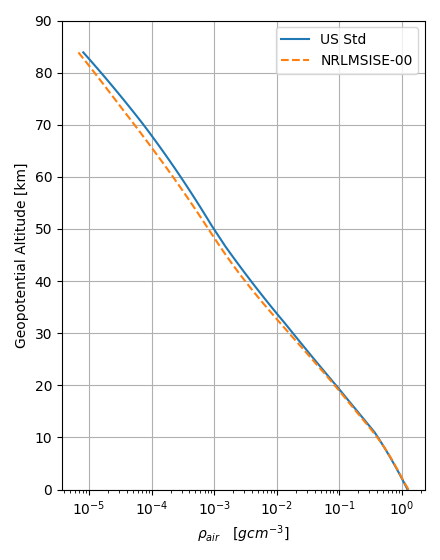
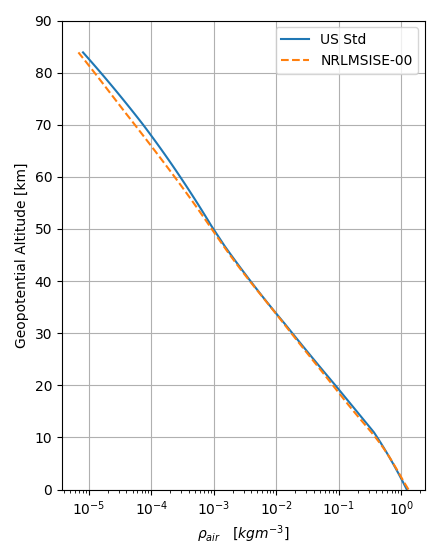
NRLMSISE00 now returns density in kg/m3

diff --git a/validation_goce_mission/analysis.py b/validation_goce_mission/analysis.py
@@ -82,7 +82,7 @@ df_goce = df_goce[
 
 # Reduce the dataset by only keeping every N-th sample
 # reduces the number of API calls
-reduction_factor = 250
+reduction_factor = 500
 df_goce = df_goce.iloc[::reduction_factor, :]
 
 # Create geomagnetic indices lookup dataframe for the month
@@ -211,12 +211,7 @@ df_goce["f107a"] = [
     for dt in df_goce.datetime.values
 ]
 
-# Calculate NRLMSISE-00 model densities using the API
-
-endpoint = args.hostname + "/api/nrlmsise00"
-
-
-def fetch_density_from_api(row):
+def fetch_density_from_api(row, url):
     """
     Make an API call to sample the atmospheric density using the 
     NRLMSISE-00 model. 
@@ -227,46 +222,35 @@ def fetch_density_from_api(row):
     
     """
     # Hit the Amentum Atmosphere API to calculate total mass density
-    # according to NRLMSISE-00
+    # according to NRLMSISE-00 and JB2008 endpoints
+    # params common to both
+
     payload = {
         "altitude": row["altitude"] / 1000.0,  # convert to kms
         "geodetic_latitude": row["latitude"],
         "geodetic_longitude": row["longitude"],
-        "f107a": row["f107a"],
-        "f107": row["f107"],
-        "ap": row["Ap"],
-        "year": row["datetime"].year,
-        "month": row["datetime"].month,
-        "day": row["datetime"].day,
+        "year" : row["datetime"].year,
+        "month" : row["datetime"].month,
+        "day" : row["datetime"].day,
         "utc": row["datetime"].hour
         + row["datetime"].minute / 60,  # TODO this must be decimal
     }
+    # additional required for the nrl one
+    if "nrlmsise00" in url:
+        payload.update({
+            "f107a": row["f107a"],
+            "f107": row["f107"],
+            "ap": row["Ap"]
+        })
+
     # Boom, hit it! Then return the JSONs
     try:
-        response = requests.get(endpoint, params=payload)
+        response = requests.get(url, params=payload)
     except requests.exceptions.RequestException as e:
         print(e)
         raise KeyboardInterrupt
     else:
         return response.json()
-
-print("WARNING: making {} requests from the Amentum API, may exceed daily quota".format(len(df_goce)))
-
-# Apply the function call onto each row of the dataframe
-res = df_goce.apply(fetch_density_from_api, axis=1)
-
-# Convert from g/cm3 to kg/m3
-df_goce["api_density"] = [row["total_mass"]["value"] * 1e-3 * 1e6 for row in res.values]
-
-# Prepare data for plotting
-
-# Convert datetimes to delta since first measurements
-# This will be used for the binning and plotting
-# (avoids using datetime objects)
-time_deltas = df_goce["datetime"].values - df_goce["datetime"].values.min()
-
-# Convert time_deltas to seconds, will also convert to float type
-time_deltas = [t / np.timedelta64(1, "s") for t in time_deltas]
 
 # limits for binning of timestamp and arg of lat
 
@@ -276,21 +260,22 @@ time_deltas = [t / np.timedelta64(1, "s") for t in time_deltas]
 time_delta_low = 0
 time_delta_high = (stop_date - start_date).total_seconds()
 
-# Create linear bins for time delta data points 
-tds = np.linspace(min(time_deltas), max(time_deltas), 20)
 # go for daily bins. 
 seconds_per_hour = 60 * 60 
 seconds_per_day = 60 * 60 * 24 
 # bin to ensure final edge is considered
 tds = np.arange(time_delta_low, time_delta_high+seconds_per_day*2, seconds_per_day*2)
 
-# same for arg lats
-arg_lats = np.linspace(
-    df_goce["argument_latitude"].min(), df_goce["argument_latitude"].max(), 20
-)
-
 arg_lat_delta = 10 # degree
 arg_lats = np.arange(0,360+arg_lat_delta,arg_lat_delta)
+
+# Convert datetimes to delta since first measurements
+# This will be used for the binning and plotting
+# (avoids using datetime objects)
+time_deltas = df_goce["datetime"].values - df_goce["datetime"].values.min()
+
+# Convert time_deltas to seconds, will also convert to float type
+time_deltas = [t / np.timedelta64(1, "s") for t in time_deltas]
 
 # Calculate the densities as mean values lying within 2d grid of bins
 densities = stats.binned_statistic_2d(
@@ -301,90 +286,106 @@ densities = stats.binned_statistic_2d(
     bins=(tds, arg_lats),
 )
 
-densities_api = stats.binned_statistic_2d(
-    time_deltas,
-    df_goce["argument_latitude"].values,
-    df_goce["api_density"].values,
-    statistic="mean",
-    bins=(tds, arg_lats),
-)
+# Calculate NRLMSISE-00 model densities using the API
 
-fig_cont, (ax_goce, ax_api) = plt.subplots(nrows=2, sharex=True)
-fig_cont.suptitle("GOCE (top) vs NRLMSISE-00 (bottom)")
+for endpoint in ["nrlmsise00", "jb2008"]:
 
-cs0 = ax_goce.imshow(
-    densities.statistic.T,
-    extent=(start_day, stop_day, arg_lats.min(), arg_lats.max()),
-    origin="lower",
-    aspect="auto",
-    cmap=plt.cm.jet,
-    vmin=df_goce["density"].values.min(),
-    vmax=df_goce["density"].values.max(),
-)
+    url = args.hostname + "/api/" + endpoint
 
-cs1 = ax_api.imshow(
-    densities_api.statistic.T,
-    extent=(start_day, stop_day, arg_lats.min(), arg_lats.max()),
-    origin="lower",
-    aspect="auto",
-    cmap=plt.cm.jet,
-    vmin=df_goce["density"].values.min(),
-    vmax=df_goce["density"].values.max(),
-)
+    print("WARNING: {} requests to Amentum API, may exceed quota".format(len(df_goce)))
 
-for ax in [ax_goce, ax_api]:
-    # Fetch the labels for the api sourced data
-    ax.set_ylabel("Argument of Latitude, deg")
-    ax.set_yticks(np.arange(0, 360, 90))
-    ax.set_xticks(np.arange(start_day, stop_day, 5))
+    # Apply the function call onto each row of the dataframe
+    res = df_goce.apply(fetch_density_from_api, args=(url,), axis=1)
 
-# Set x labels on bottom plot only
-ax_api.set_xlabel(datetime.date(year, month, 1).strftime("%B %Y"))
+    # Convert from g/cm3 to kg/m3
+    df_goce[endpoint] = [row["total_mass"]["value"] * 1e-3 * 1e6 for row in res.values]
 
-# Format colorbar axis
-cb = fig_cont.colorbar(cs1, ax=list((ax_goce, ax_api)), format="%3.1e")
+    # Prepare data for plotting
+    densities_api = stats.binned_statistic_2d(
+        time_deltas,
+        df_goce["argument_latitude"].values,
+        df_goce[endpoint].values,
+        statistic="mean",
+        bins=(tds, arg_lats),
+    )
 
-cb.set_label("Density " + r"$kgm^{-3}$")
+    fig_cont, (ax_goce, ax_api) = plt.subplots(nrows=2, sharex=True)
+    fig_cont.suptitle("GOCE (top) vs "+endpoint.upper()+" (bottom)")
 
-fig_cont.savefig("Density_GOCE_vs_NRLMSISE-00.png")
+    cs0 = ax_goce.imshow(
+        densities.statistic.T,
+        extent=(start_day, stop_day, arg_lats.min(), arg_lats.max()),
+        origin="lower",
+        aspect="auto",
+        cmap=plt.cm.jet,
+        vmin=df_goce["density"].values.min(),
+        vmax=df_goce["density"].values.max(),
+    )
 
-# Now plot the profiles for a particular argument latitude
+    cs1 = ax_api.imshow(
+        densities_api.statistic.T,
+        extent=(start_day, stop_day, arg_lats.min(), arg_lats.max()),
+        origin="lower",
+        aspect="auto",
+        cmap=plt.cm.jet,
+        vmin=df_goce["density"].values.min(),
+        vmax=df_goce["density"].values.max(),
+    )
 
-# TODO functionise this to plot for different arg of lats
+    for ax in [ax_goce, ax_api]:
+        # Fetch the labels for the api sourced data
+        ax.set_ylabel("Argument of Latitude, deg")
+        ax.set_yticks(np.arange(0, 360, 90))
+        ax.set_xticks(np.arange(start_day, stop_day, 5))
 
-fig_prof = plt.figure()
-ax_prof = fig_prof.add_subplot(111)
-ax_prof.set_xlabel(datetime.date(year, month, 1).strftime("%B %Y"))
-ax_prof.set_ylabel("Density " + r"$kgm^{-3}$")
+    # Set x labels on bottom plot only
+    ax_api.set_xlabel(datetime.date(year, month, 1).strftime("%B %Y"))
 
-midlat_index = np.searchsorted(arg_lats, 180)
+    # Format colorbar axis
+    cb = fig_cont.colorbar(cs1, ax=list((ax_goce, ax_api)), format="%3.1e")
 
-arg_lat_of_interest = arg_lats[midlat_index]
+    cb.set_label("Density " + r"$kgm^{-3}$")
 
-ax_prof.plot(tds[:-1], densities.statistic.T[midlat_index, :], label="GOCE")
+    fig_cont.savefig("Density_GOCE_vs_{}.png".format(endpoint))
 
-ax_prof.plot(
-    tds[:-1], densities_api.statistic.T[midlat_index, :], label="NRLMSISE-00"
-)
+    # Now plot the profiles for a particular argument latitude
 
-labels = [item.get_text() for item in ax_prof.get_xticklabels()]
+    # TODO functionise this to plot for different arg of lats
+
+    fig_prof = plt.figure()
+    ax_prof = fig_prof.add_subplot(111)
+    ax_prof.set_xlabel(datetime.date(year, month, 1).strftime("%B %Y"))
+    ax_prof.set_ylabel("Density " + r"$kgm^{-3}$")
+
+    midlat_index = np.searchsorted(arg_lats, 180)
+
+    arg_lat_of_interest = arg_lats[midlat_index]
+
+    ax_prof.plot(tds[:-1], densities.statistic.T[midlat_index, :], label="GOCE")
+
+    ax_prof.plot(
+        tds[:-1], densities_api.statistic.T[midlat_index, :], label=endpoint.upper()
+    )
+
+    labels = [item.get_text() for item in ax_prof.get_xticklabels()]
 
 
-def format_func(value, tick_number):
-    """
-    Function to convert tick labels from seconds elapsed to 
-    day of date.
-    
-    """
-    return start_day + int(value / seconds_per_day)
+    def format_func(value, tick_number):
+        """
+        Function to convert tick labels from seconds elapsed to 
+        day of date.
+        
+        """
+        return start_day + int(value / seconds_per_day)
 
 
-ax_prof.xaxis.set_major_formatter(plt.FuncFormatter(format_func))
+    ax_prof.xaxis.set_major_formatter(plt.FuncFormatter(format_func))
 
-ax_prof.legend()
+    ax_prof.legend()
 
-fig_prof.suptitle(
-    "Argument of latitude {0:.2f} deg".format(arg_lat_of_interest), fontsize=12
-)
+    fig_prof.suptitle(
+        "Argument of latitude {0:.2f} deg".format(arg_lat_of_interest), fontsize=12
+    )
 
-fig_prof.savefig("Density_vs_day_AOL{}.png".format(int(arg_lat_of_interest)))
+    fig_prof.savefig("Density_vs_day_AOL_{}_{}.png".format(
+        int(arg_lat_of_interest), endpoint.upper()))

diff --git a/benchmarking_us_std_76/analysis.py b/benchmarking_us_std_76/analysis.py
@@ -301,12 +301,8 @@ if __name__ == "__main__":
             raise KeyboardInterrupt
         else:
             json_payload = response.json()
-            densities_api.append(json_payload["total_mass"]["value"])  # [g/cm3]
+            densities_api.append(json_payload["total_mass"]["value"])  # [kg/m3]
             temps_api.append(json_payload["at_alt_temp"]["value"])  # [K]
-
-    # Convert densities to SI units
-    densities_api = np.array(densities_api) / 1e3  # [kg / cm3]
-    densities_api *= 1e6  # [kg / m3]
 
     # Now calculate values based on the US Standard Atmosphere 1976
 
@@ -324,7 +320,7 @@ if __name__ == "__main__":
     fig = plt.figure(figsize=(4.4, 5.6))
     ax = fig.add_subplot(111)
     ax.set_ylabel("Geopotential Altitude [km]")
-    ax.set_xlabel(r"$\rho _{air} \quad [gcm^{-3}]$")
+    ax.set_xlabel(r"$\rho _{air} \quad [kgm^{-3}]$")
 
     ax.semilogx(
         densities,
